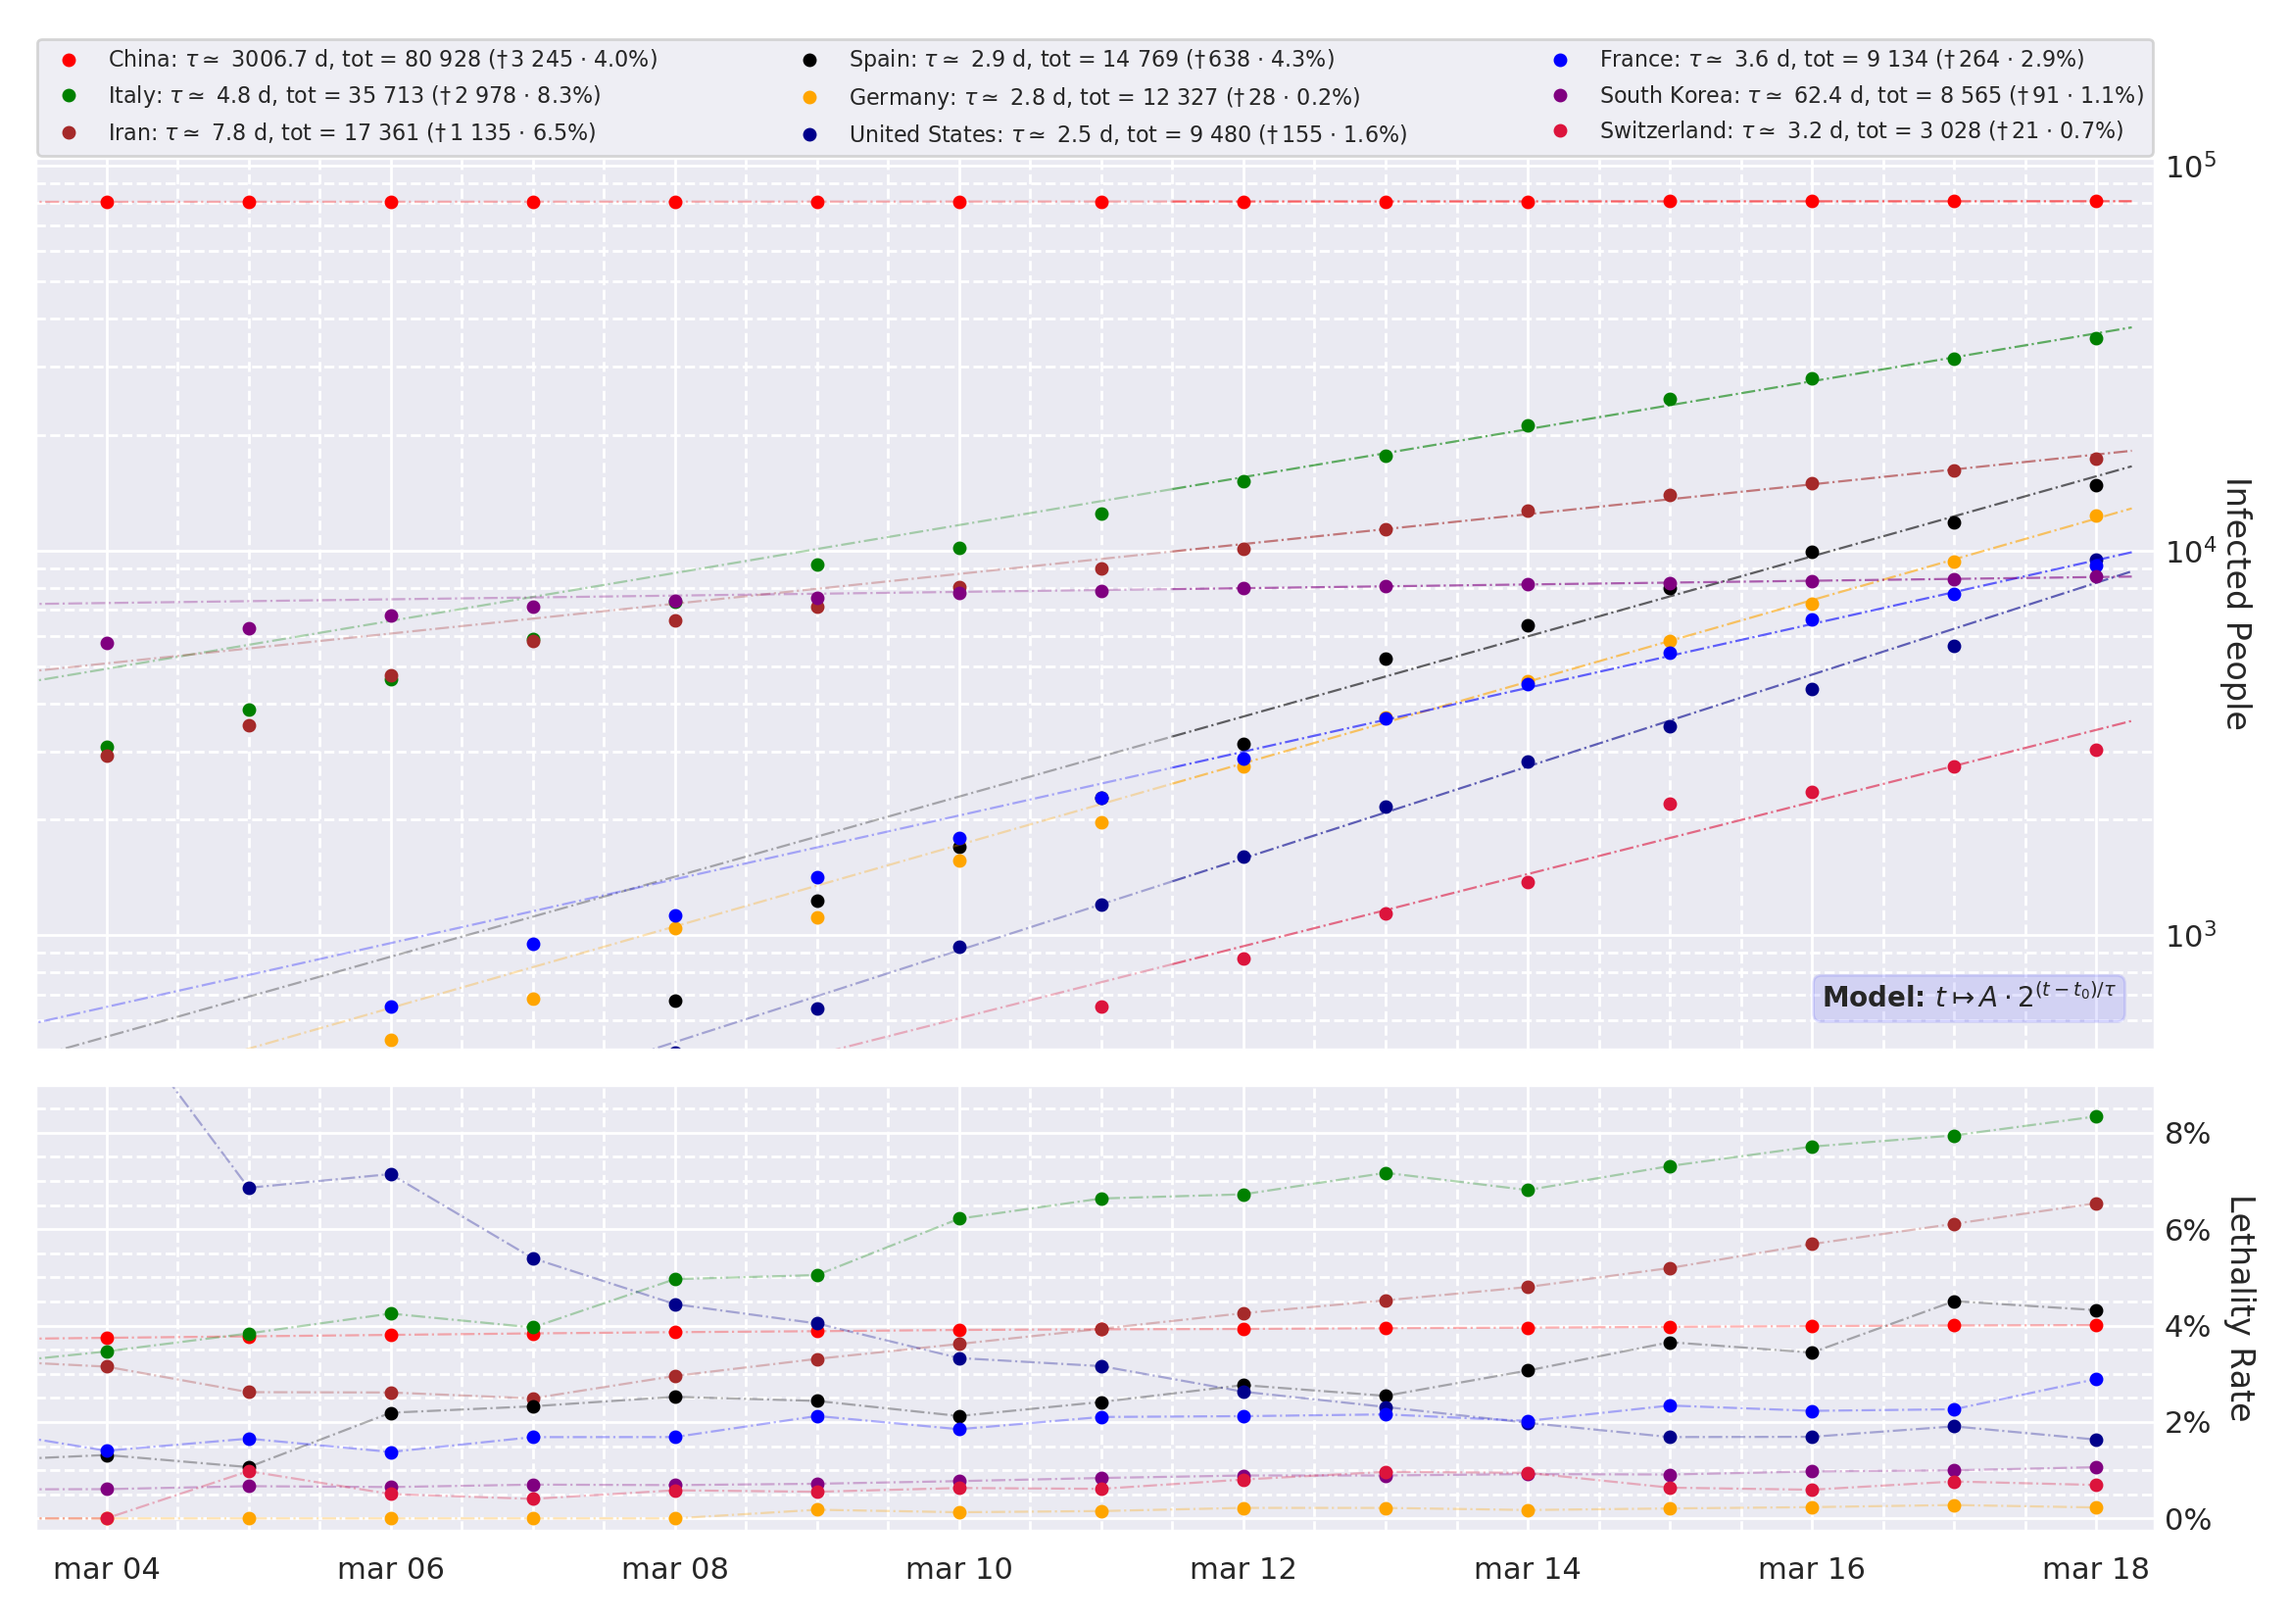
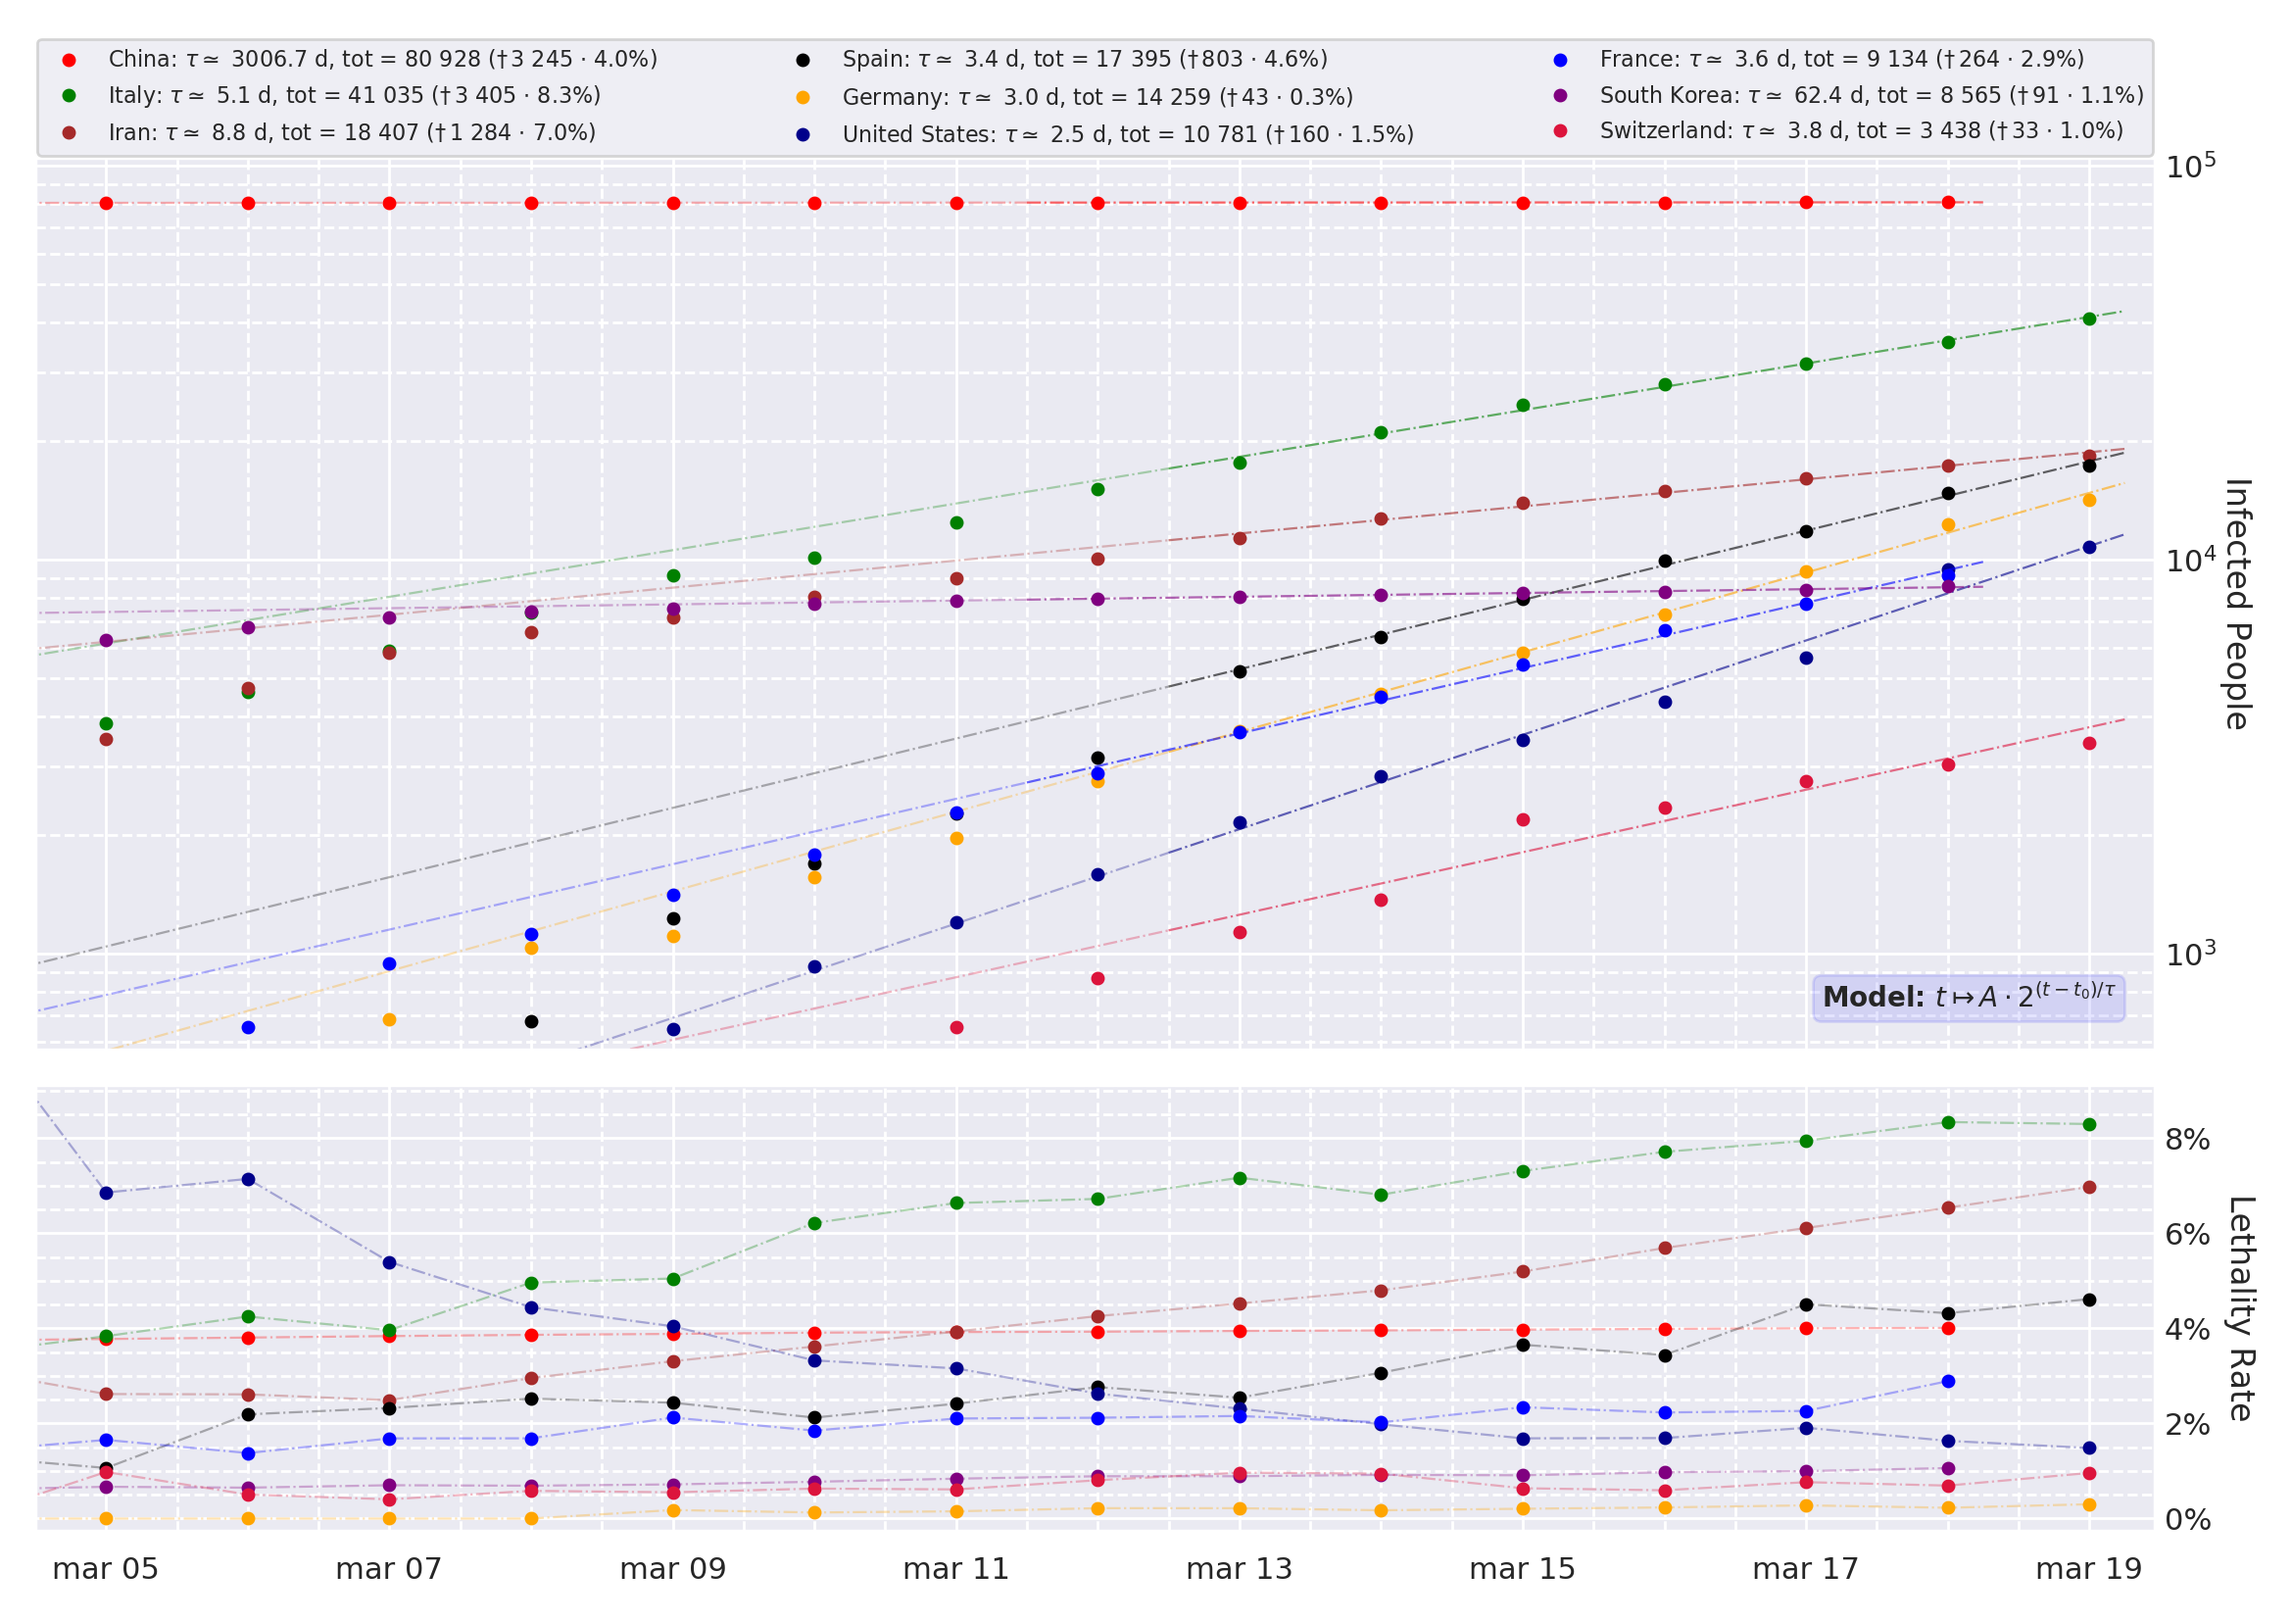
minor commit

diff --git a/Coronavirus/coronavirus.py b/Coronavirus/coronavirus.py
@@ -22,7 +22,8 @@ def spacing(n):
 
 
 country_ds = pd.DataFrame(
-    columns=["name", "filename", "date_format", "color", "tot"]
+    columns=["name", "filename", "date_format", "color", "tot_count",
+             "tot_death", "lethality"]
 )
 country_ds["name"] = [
     "South Korea", "Iran", "Italy", "Germany", "France", "China", "Spain",
@@ -48,10 +49,13 @@ for i in country_ds.index:
                 x, format=country_ds["date_format"].iloc[i])
 
     df = pd.read_csv("datasets/" + country_ds["filename"].iloc[i], **kwargs)
-    country_ds["tot"].iloc[i] = df["count"].iloc[-1]
+    country_ds["tot_count"].iloc[i] = df["count"].iloc[-1]
+    country_ds["tot_death"].iloc[i] = df["death"].iloc[-1]
 
-country_ds["tot"] = country_ds["tot"].astype(int)
-country_ds.sort_values(by=["tot"], ascending=False, inplace=True)
+country_ds["tot_count"] = country_ds["tot_count"].astype(int)
+country_ds["tot_death"] = country_ds["tot_death"].astype(int)
+country_ds["lethality"] = country_ds["tot_death"]/country_ds["tot_count"]*100
+country_ds.sort_values(by=["tot_count"], ascending=False, inplace=True)
 country_ds.reset_index(drop=True, inplace=True)
 
 plt.rcParams.update({"font.size": 12})
@@ -84,9 +88,9 @@ for i in country_ds.index:
              r"tot = %s ($\dag\,$%s $\cdot$ %.1f%%)") % (
         country_ds["name"].iloc[i],
         param[0],
-        spacing(df["count"].values[-1]),
-        spacing(df["death"].values[-1]),
-        df["death"].values[-1]/df["count"].values[-1]*100
+        spacing(country_ds["tot_count"].iloc[i]),
+        spacing(country_ds["tot_death"].iloc[i]),
+        country_ds["lethality"].iloc[i]
     )
     ax1.plot(df.index, df["count"].values, ".",
              color=country_ds["color"].iloc[i], label=label, markersize=8)
@@ -116,8 +120,8 @@ ax1.xaxis.set_major_locator(mdates.DayLocator(interval=2))
 ax1.xaxis.set_minor_locator(mdates.DayLocator())
 
 ax1.set_yscale("log")
-ax1.set_ylim(bottom=country_ds["tot"].min()/6)
-ax1.set_ylim(top=country_ds["tot"].max()*1.3)
+ax1.set_ylim(bottom=country_ds["tot_count"].min()/6)
+ax1.set_ylim(top=country_ds["tot_count"].max()*1.3)
 ax1.yaxis.tick_right()
 ax1.tick_params(axis="y", which="both", length=0)
 ax1.set_ylabel("Infected People", rotation=270, labelpad=13)
@@ -128,7 +132,7 @@ ax2.yaxis.set_minor_locator(ticker.MultipleLocator(.5))
 ax2.yaxis.set_major_formatter(
     ticker.FuncFormatter(lambda y, _: "{:.0%}".format(y/100))
 )
-ax2.set_ylim((-0.25, 9))
+ax2.set_ylim((-0.25, country_ds["lethality"].max()*1.1))
 ax2.set_ylabel("Lethality Rate", rotation=270, labelpad=16)
 ax2.minorticks_on()
 ax2.yaxis.tick_right()
